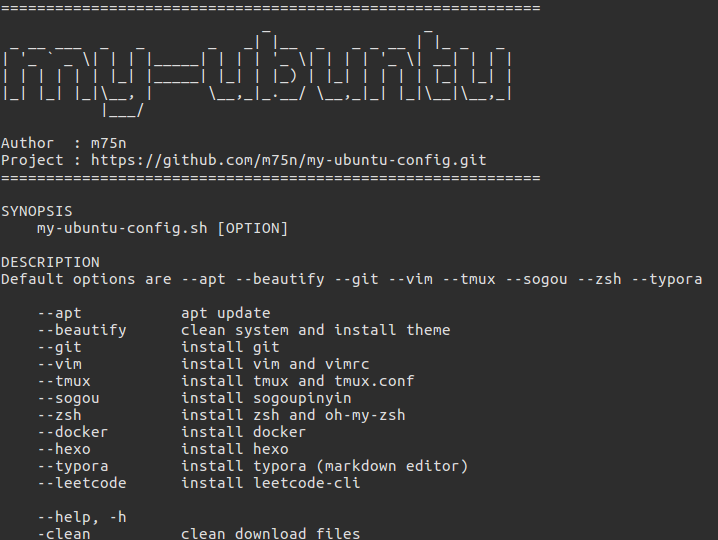
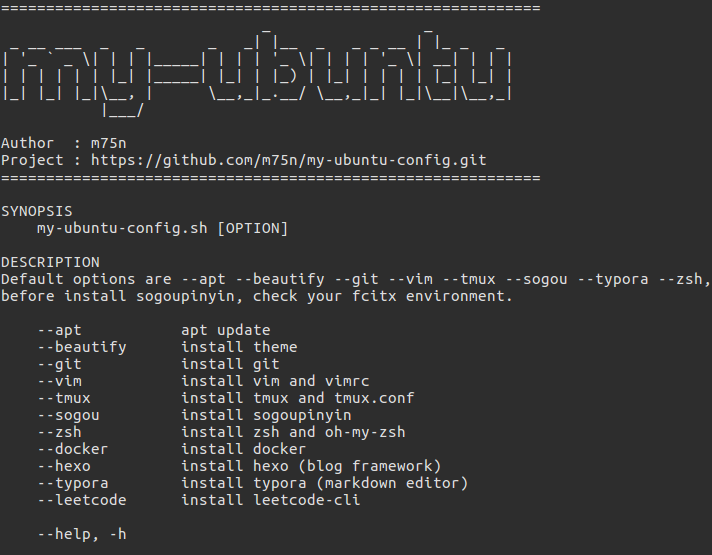
regular work

diff --git a/README.md b/README.md
@@ -4,13 +4,23 @@
 
 自用 Ubuntu 装机脚本，便捷安装常用软件与系统美化
 
-使用方法见帮助命令
+## 使用方法
+
+```shell
+wget https://raw.githubusercontent.com/m75n/my-ubuntu-config/master/my-ubuntu-config.sh
+chmod +x ./my-ubuntu-config.sh
+sudo ./my-ubuntu-config.sh
 ```
+
+具体参数见帮助命令
+```shell
 ./my-ubuntu-config.sh --help
 ```
 
-PS:
+## NOTES:
+
 - 注意修改 gitconfig 中的用户名与邮箱
 - Flatabulous 主题与 Numix-circle 图标需要手动在 unity-tweak-tool 中启用
 - vim 插件需要打开 vim 执行 `:PlugInstall` 安装
-- 自动安装完 oh-my-zsh 后会进入 zsh 环境中，需要手动输入 `exit` 退出来继续脚本执行
+- ~~自动安装完 oh-my-zsh 后会进入 zsh 环境中，需要手动输入 `exit` 退出来继续脚本执行~~
+- 安装搜狗输入法前请确保安装依赖 fcitx
